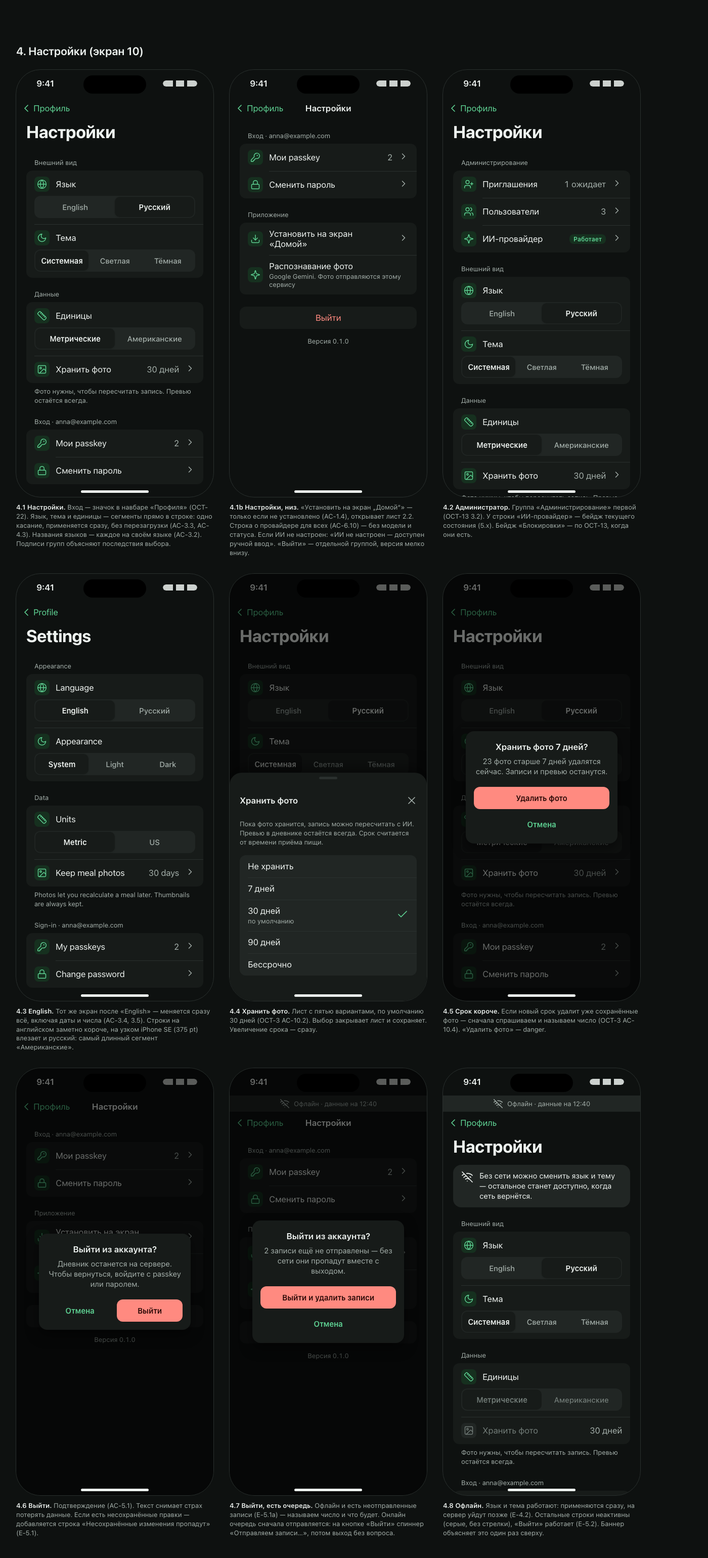
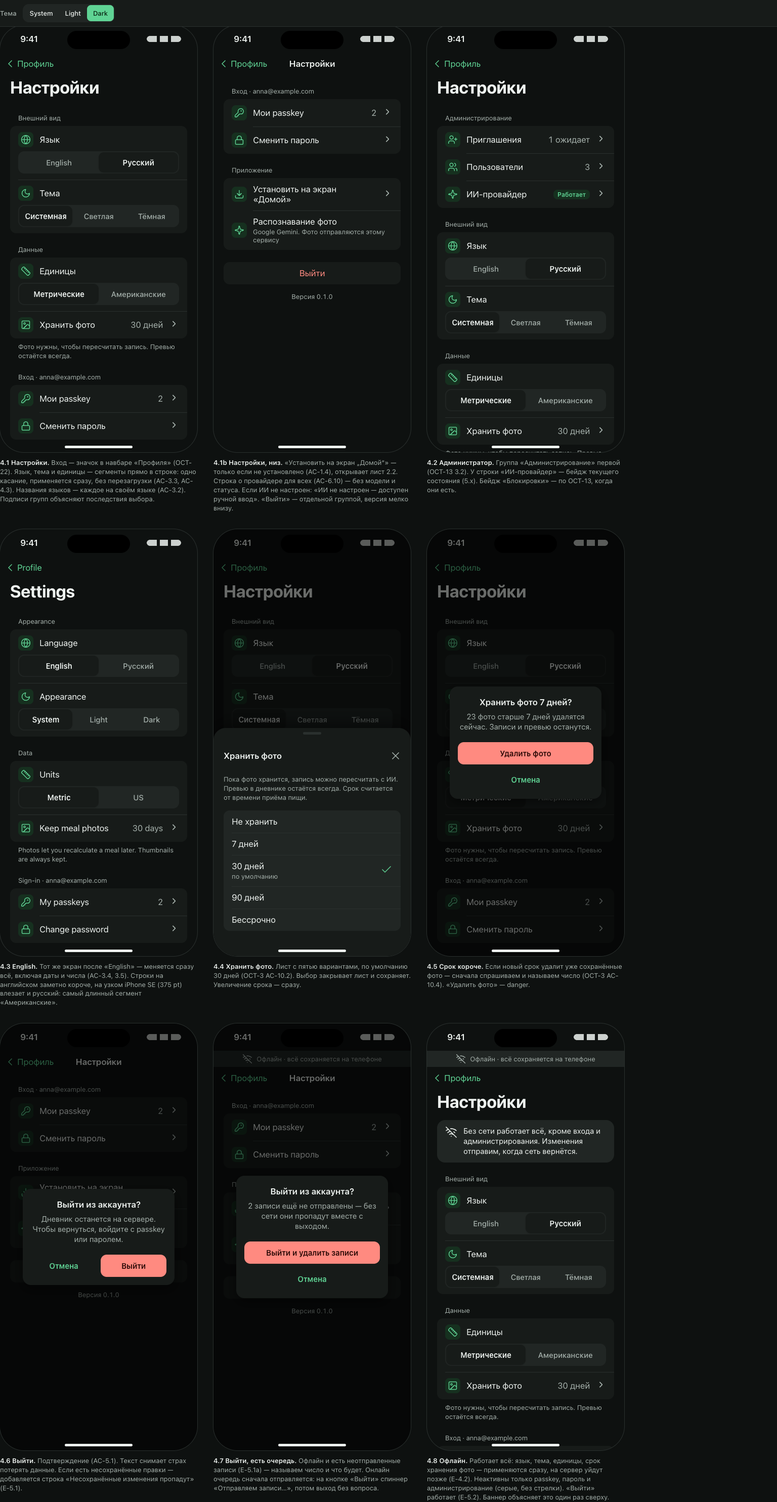
OCT-25 Offline-first: the whole app works without network except AI, sign-in and admin

diff --git a/docs/design/oct-25/prototype.html b/docs/design/oct-25/prototype.html
@@ -860,7 +860,7 @@ function todayScreen({card=kcalCard(), meals=mealsGroup(M.lunch+M.bf), top='', e
 }
 const emptyMeals = `<div class="card" style="align-items:center;text-align:center;gap:var(--space-2)"><span class="s-ic" style="width:56px;height:56px;border-radius:50%;display:grid;place-items:center;background:var(--color-surface-2);color:var(--color-text-secondary)">${I('camera')}</span><span class="t-headline">Сегодня пока пусто</span><span class="t-sub muted" style="max-width:30ch">Сфотографируйте еду — калории и БЖУ посчитаем сами.</span></div>`;
 const invite = `<div class="invite">${I('target')}<span>Задайте норму — покажем, сколько осталось</span><span class="go">Задать</span></div>`;
-const offBar = (t='Офлайн · данные на 12:40') => `<div class="offline-bar">${I('wifi-off','sm')}${t}</div>`;
+const offBar = (t='Офлайн · всё сохраняется на телефоне') => `<div class="offline-bar">${I('wifi-off','sm')}${t}</div>`;
 const skelCard = `<div class="card"><div class="skel" style="width:40%"></div><div class="skel" style="width:55%;height:48px"></div><div class="skel" style="height:var(--progress-height)"></div><div class="mac-grid"><div class="skel" style="height:44px"></div><div class="skel" style="height:44px"></div><div class="skel" style="height:44px"></div></div></div>`;
 const skelRows = `<div class="group">${[1,2].map(()=>`<div class="cell"><div class="skel" style="width:var(--meal-thumb-size);height:var(--meal-thumb-size)"></div><div class="main"><div class="skel" style="width:50%"></div><div class="skel" style="width:80%"></div></div></div>`).join('')}</div>`;
 const errState = (title='Не удалось загрузить день', body='Проверьте сеть и попробуйте ещё раз.') => `<div class="state" role="alert"><span class="s-ic danger">${I('alert')}</span><span class="t-headline">${title}</span><p class="t-sub muted">${body}</p><button class="btn btn-primary btn-sm">${I('refresh','sm')}Повторить</button></div>`;
@@ -902,7 +902,7 @@ const stepsList = `<ol class="steps-i">
   <li><span class="n">1</span><span>Нажмите <span class="syskey">${I('share')}Поделиться</span><span class="sub">Внизу экрана Safari. Если её не видно — сначала <span class="syskey">${I('more')}</span></span></span></li>
   <li><span class="n">2</span><span>Выберите <span class="syskey">${I('square-plus')}На экран «Домой»</span><span class="sub">Если пункта нет — прокрутите список вниз</span></span></li>
   <li><span class="n">3</span><span>Нажмите <span class="syskey">Добавить</span></span></li></ol>`;
-const installSheet = `<div class="scrim"></div><div class="sheet" role="dialog" aria-label="Установка на экран «Домой»"><div class="grab"></div><div class="sheet-head"><span class="t-title">Установка на iPhone</span><span class="x" aria-label="Закрыть">${I('x')}</span></div>${stepsList}<div class="why"><span>${I('zap','sm')}Открывается одним касанием, без адресной строки</span><span>${I('wifi-off','sm')}Показывает последние данные без сети</span></div><button class="btn btn-tonal">Понятно</button></div>`;
+const installSheet = `<div class="scrim"></div><div class="sheet" role="dialog" aria-label="Установка на экран «Домой»"><div class="grab"></div><div class="sheet-head"><span class="t-title">Установка на iPhone</span><span class="x" aria-label="Закрыть">${I('x')}</span></div>${stepsList}<div class="why"><span>${I('zap','sm')}Открывается одним касанием, без адресной строки</span><span>${I('wifi-off','sm')}Работает и без сети</span></div><button class="btn btn-tonal">Понятно</button></div>`;
 const notSafariSheet = `<div class="scrim"></div><div class="sheet" role="dialog" aria-label="Установка"><div class="grab"></div><div class="sheet-head"><span class="t-title">Откройте в Safari</span><span class="x" aria-label="Закрыть">${I('x')}</span></div><p class="t-body">На iPhone установить приложение можно только из Safari. Скопируйте адрес и вставьте его в Safari — там появится подсказка.</p><div class="addr">${I('compass','sm')}calories.home.lan</div><button class="btn btn-primary">${I('copy','sm')}Скопировать адрес</button></div>`;
 document.getElementById('install-row').innerHTML = [
   frame('2.1','Подсказка на «Сегодня»','Только iPhone + Safari + не установлено (AC-1.3). Появляется после входа, на «Сегодня», карточкой над итогом дня — ничего не перекрывает и не требует ответа. Не показывается на экране входа, поверх камеры, распознавания и правки. В установленной PWA её нет нигде (AC-1.5).', todayScreen({invite:installCard}).replace('</nav>','</nav>'+safari), 'in-safari'),
@@ -912,18 +912,14 @@ document.getElementById('install-row').innerHTML = [
 ].join('');
 
 /* ---------- 3. Offline ---------- */
-const serverBar = `<div class="offline-bar" role="status">${I('server-off','sm')}Сервер недоступен · данные на 12:40</div>`;
-const noCache = `<div class="content" style="justify-content:center"><div class="state" role="alert"><span class="s-ic">${I('wifi-off')}</span><span class="t-headline">Нет сети и сохранённых данных</span><p class="t-sub muted">Подключитесь к интернету — приложение загрузится само.</p><button class="btn btn-tonal btn-sm">${I('refresh','sm')}Повторить</button></div></div>`;
-const staleToday = `${offBar('Офлайн · данные за вчера, 23:40')}<div class="large-title">Вчера<span class="date">среда, 12 ноября</span></div><div class="content"><div class="pad stack"><div class="banner notice" role="status">${I('info')}<div>Сегодняшний день загрузится, когда появится сеть. Записать еду можно уже сейчас.</div></div>${kcalCard({eaten:1980, weekVal:5290})}${quick}${mealsGroup(meal({type:'Ужин',time:'19:40',sub:'Паста с курицей, салат',k:740})+M.lunch+M.bf)}</div></div>${tabbar('Сегодня')}`;
-const diaryOff = `${offBar()}<div class="title-row"><div class="large-title">Дневник</div></div><div class="content"><div class="pad stack"><div class="seg" role="group" aria-label="День" style="grid-template-columns:auto 1fr auto;grid-auto-flow:row;background:transparent"><span style="color:var(--color-accent);width:var(--tap-min)">${I('chev-l')}</span><span style="color:var(--color-text);font-weight:600">пн, 2 ноября</span><span style="color:var(--color-accent);width:var(--tap-min)">${I('chev-r')}</span></div><div class="card"><div class="state"><span class="s-ic">${I('cloud-off')}</span><span class="t-headline">Этот день недоступен офлайн</span><p class="t-sub muted">Без сети открываются последние 7 дней и дни, которые вы уже смотрели.</p></div></div></div></div>${tabbar('Дневник')}`;
+const serverBar = `<div class="offline-bar" role="status">${I('server-off','sm')}Сервер недоступен · всё сохраняется на телефоне</div>`;
+const noCache = `<div class="content" style="justify-content:center"><div class="state" role="alert"><span class="s-ic">${I('wifi-off')}</span><span class="t-headline">Первый вход — только с сетью</span><p class="t-sub muted">Дальше приложение работает и без неё. Подключитесь к интернету — экран обновится сам.</p><button class="btn btn-tonal btn-sm">${I('refresh','sm')}Повторить</button></div></div>`;
 const signIn = (banner) => `<div class="content" style="padding-top:var(--space-12)"><div class="pad stack"><div class="brand"><span class="mark">${I('plate','sm')}</span>OpenCalorieTracker</div><div class="large-title" style="padding:var(--space-4) 0">Вход</div>${banner}<button class="btn btn-primary">${I('key','sm')}Войти с passkey</button><button class="btn btn-plain">Войти по паролю</button></div></div>`;
 document.getElementById('offline-row').innerHTML = [
-  frame('3.1','Офлайн','Полоса под статус-баром на каждом экране: «Офлайн · данные на 12:40» (AC-2.3). Не закрывается, не мигает, <code>role="status"</code>. Запись еды работает — в очередь (OCT-19 2.8). Что недоступно, объясняется в момент касания (3.6), а не заранее.', todayScreen({top:offBar(), card:kcalCard({eaten:1240})})),
+  frame('3.1','Офлайн','Приложение работает без сети целиком: весь дневник, профиль и настройки лежат на телефоне, любое изменение применяется сразу и уходит на сервер, когда появится сеть. Полоса под статус-баром спокойная: «Офлайн · всё сохраняется на телефоне», <code>role="status"</code>. Новые сутки начинаются и без сети. Фото ждут распознавания в очереди (OCT-16 3.7, OCT-19 2.8).', todayScreen({top:offBar(), card:kcalCard({eaten:1240})})),
   frame('3.2','Сервер недоступен','Сеть есть, сервер не отвечает (E-2.4) — всё как в 3.1, но значок и текст другие: «Сервер недоступен». Пользователь сразу понимает, что дело не в его телефоне.', todayScreen({top:serverBar})),
-  frame('3.3','Наступили новые сутки','В кэше вчерашний день (E-2.3). Заголовок честно говорит «Вчера» с датой, полоса — «данные за вчера, 23:40», баннер объясняет, что сегодняшний день появится с сетью. Записать еду можно — запись уйдёт в сегодняшний день.', staleToday),
-  frame('3.4','Нет ни сети, ни кэша','Первый запуск без сети или после очистки хранилища iOS (E-2.1, E-8.8). Никаких нулей, которые выглядят как правда, — только состояние. «Повторить» проверяет сеть, но экран обновится и сам, когда она появится.', noCache),
-  frame('3.5','День не загружен','Открыли в дневнике день, которого нет в кэше (E-2.2). Листание к соседним дням работает. Последние 7 дней кэшируются всегда.', diaryOff),
-  frame('3.6','Недоступное действие','Сохранение профиля, агент нормы, раздел администратора (AC-2.4). Записи дневника офлайн правятся и удаляются через очередь (OCT-19 6.10). Кнопки не прячем: касание показывает тост с причиной. Иконка <code>wifi-off</code>, 4 с, без действия.', todayScreen({top:offBar(), extra:toast('Без сети профиль не сохранить','', 'wifi-off')})),
+  frame('3.4','Первый запуск без сети','Единственный случай, когда без сети никак: приложение ещё ни разу не входило или iOS очистила хранилище (E-2.1, E-8.8) — войти можно только через сервер. Никаких нулей, которые выглядят как правда. «Повторить» проверяет сеть, но экран обновится и сам, когда она появится.', noCache),
+  frame('3.6','Что требует сети','Только то, что физически живёт за сервером: распознавание фото (ждёт в очереди), агент нормы, вход, passkey и пароль, раздел администратора. Кнопки не прячем: касание показывает тост с причиной, <code>wifi-off</code>, 4 с. Профиль и норма сохраняются офлайн — норма считается на телефоне.', todayScreen({top:offBar(), extra:toast('Агенту нормы нужна сеть','', 'wifi-off')})),
   frame('3.7','Сессия истекла','Сеть вернулась, а сессия уже недействительна (E-8.11). Экран входа с баннером; неотправленные записи не теряются — об этом вторая строка. После входа — туда, где пользователь был, и очередь уходит сама.', signIn(`<div class="banner notice" role="status">${I('clock')}<div><div class="b-title">Сессия истекла, войдите снова</div>2 записи без сети сохранены — отправим после входа.</div></div>`)),
   frame('3.8','Вход другим аккаунтом','В очереди остались записи прошлого пользователя (E-8.11, AC-2.7). Перед входом — предупреждение. «Войти» удаляет кэш и очередь прошлого пользователя.', signIn('') + alertBox('Войти другим аккаунтом?', '2 записи anna@example.com ещё не отправлены. Они пропадут с этого телефона.', b('Отмена')+b('Войти','btn-danger'))),
 ].join('');
@@ -937,11 +933,11 @@ function settings({admin=false, top='', ro=false, part='top', en=false, provider
     : {s:'Настройки', ap:'Внешний вид', dt:'Данные', ph:'Хранить фото', phv:'30 дней', phf:'Фото нужны, чтобы пересчитать запись. Превью остаётся всегда.', unf:'Вес еды — в унциях, вес тела — в фунтах. Калории и БЖУ не меняются.', ad:'Администрирование', inv:'Приглашения', invv:'1 ожидает', us:'Пользователи', lk:'Блокировки', ai:'ИИ-провайдер', aiOk:'Работает', sg:'Вход · anna@example.com', pk:'Мои passkey', pw:'Сменить пароль', app:'Приложение', inst:'Установить на экран «Домой»', rec:'Распознавание фото', recs:provider, out:'Выйти', ver:'Версия 0.1.0', back:'Профиль'};
   const adminG = admin ? `<div class="group-h">${T.ad}</div><div class="group">${cell('user-plus',T.inv,T.invv,{dis:ro})}${cell('users',T.us,'3',{dis:ro})}${cell('spark',T.ai,ro?'':`<span class="badge ok">${T.aiOk}</span>`,{dis:ro})}</div>` : '';
   const look = `<div class="group-h">${T.ap}</div><div class="group">${LANG(en?'English':'Русский')}${THEME(en?'System':'Системная', false, en)}</div>`;
-  const data = `<div class="group-h">${T.dt}</div><div class="group">${UNITS(ro, en)}${cell('image',T.ph,ro?T.phv:T.phv,{dis:ro})}</div><p class="group-f">${T.phf}</p>`;
+  const data = `<div class="group-h">${T.dt}</div><div class="group">${UNITS(false, en)}${cell('image',T.ph,T.phv,{})}</div><p class="group-f">${T.phf}</p>`;
   const sign = `<div class="group-h">${T.sg}</div><div class="group">${cell('key',T.pk,'2',{dis:ro})}${cell('lock',T.pw,'',{dis:ro})}</div>`;
   const app = `<div class="group-h">${T.app}</div><div class="group">${installed?'':cell('download',T.inst,'',{})}${cell('spark',T.rec,'',{sub:T.recs, chev:false})}</div>`;
   const out = `<div class="group" style="margin-top:var(--space-6)"><div class="cell danger" role="button" style="justify-content:center">${T.out}</div></div><p class="ver">${T.ver}</p>`;
-  const roNote = ro ? `<div class="banner notice" role="status" style="margin-top:var(--space-2)">${I('wifi-off')}<div>Без сети можно сменить язык и тему — остальное станет доступно, когда сеть вернётся.</div></div>` : '';
+  const roNote = ro ? `<div class="banner notice" role="status" style="margin-top:var(--space-2)">${I('wifi-off')}<div>Без сети работает всё, кроме входа и администрирования. Изменения отправим, когда сеть вернётся.</div></div>` : '';
   const body = part==='top' ? `${roNote}${adminG}${look}${data}${admin?'':sign}` : `${sign}${app}${out}`;
   const head = part==='top' ? `<div class="large-title">${T.s}</div>` : `<div class="navbar"><span class="back">${I('chev-l')}${T.back}</span><div class="title">${T.s}</div><div></div></div>`;
   return `${top}${part==='top'?`<div class="navbar"><span class="back">${I('chev-l')}${T.back}</span><div></div><div></div></div>`:''}${head}<div class="content modal"><div class="pad">${body}</div></div>`;
@@ -957,7 +953,7 @@ document.getElementById('settings-row').innerHTML = [
   frame('4.5','Срок короче','Если новый срок удалит уже сохранённые фото — сначала спрашиваем и называем число (OCT-3 AC-10.4). «Удалить фото» — danger.', settings() + alertBox('Хранить фото 7 дней?', '23 фото старше 7 дней удалятся сейчас. Записи и превью останутся.', b('Удалить фото','btn-danger')+b('Отмена'), true)),
   frame('4.6','Выйти','Подтверждение (AC-5.1). Текст снимает страх потерять данные. Если есть несохранённые правки — добавляется строка «Несохранённые изменения пропадут» (E-5.1).', settings({part:'bottom'}) + alertBox('Выйти из аккаунта?', 'Дневник останется на сервере. Чтобы вернуться, войдите с passkey или паролем.', b('Отмена')+b('Выйти','btn-danger'))),
   frame('4.7','Выйти, есть очередь','Офлайн и есть неотправленные записи (E-5.1a) — называем число и что будет. Онлайн очередь сначала отправляется: на кнопке «Выйти» спиннер «Отправляем записи…», потом выход без вопроса.', settings({part:'bottom', top:offBar()}) + alertBox('Выйти из аккаунта?', '2 записи ещё не отправлены — без сети они пропадут вместе с выходом.', b('Выйти и удалить записи','btn-danger')+b('Отмена'), true)),
-  frame('4.8','Офлайн','Язык и тема работают: применяются сразу, на сервер уйдут позже (E-4.2). Остальные строки неактивны (серые, без стрелки), «Выйти» работает (E-5.2). Баннер объясняет это один раз сверху.', settings({top:offBar(), ro:true})),
+  frame('4.8','Офлайн','Работает всё: язык, тема, единицы, срок хранения фото — применяются сразу, на сервер уйдут позже (E-4.2). Неактивны только passkey, пароль и администрирование (серые, без стрелки). «Выйти» работает (E-5.2). Баннер объясняет это один раз сверху.', settings({top:offBar(), ro:true})),
 ].join('');
 
 /* ---------- 5. AI provider (admin) ---------- */
